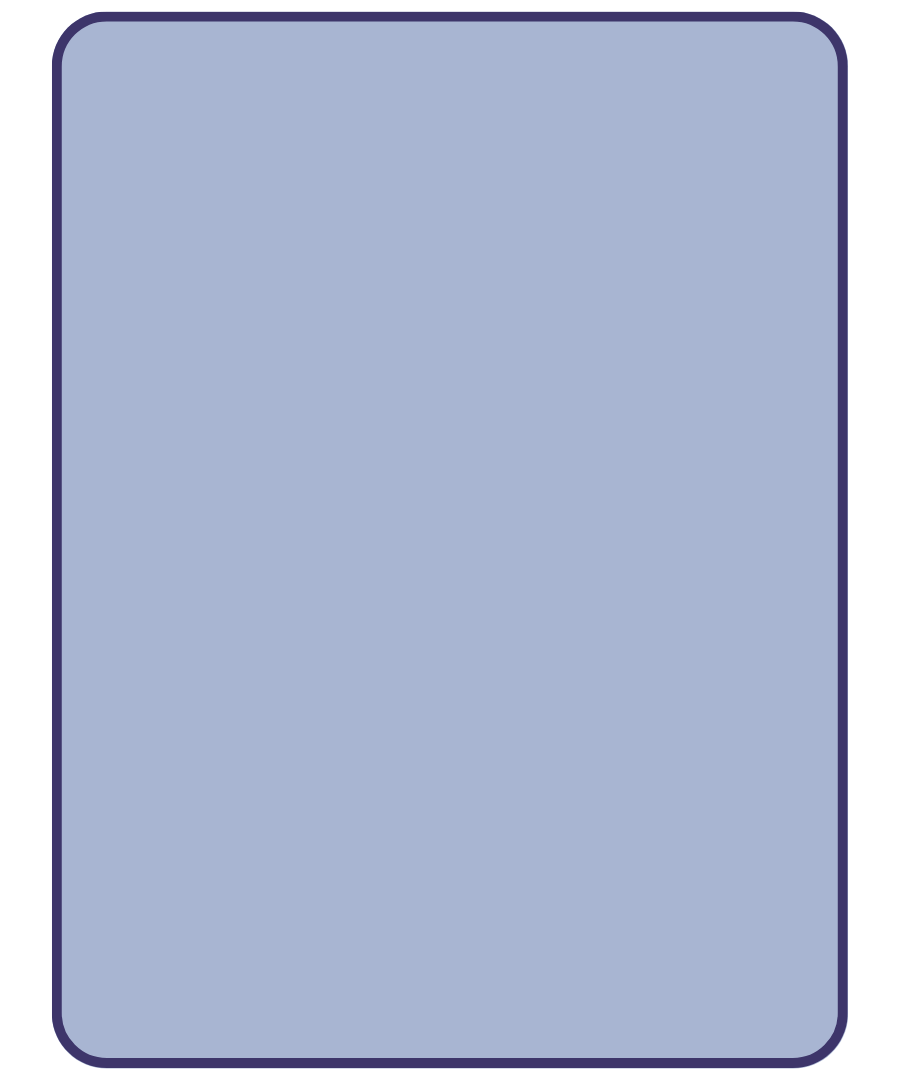
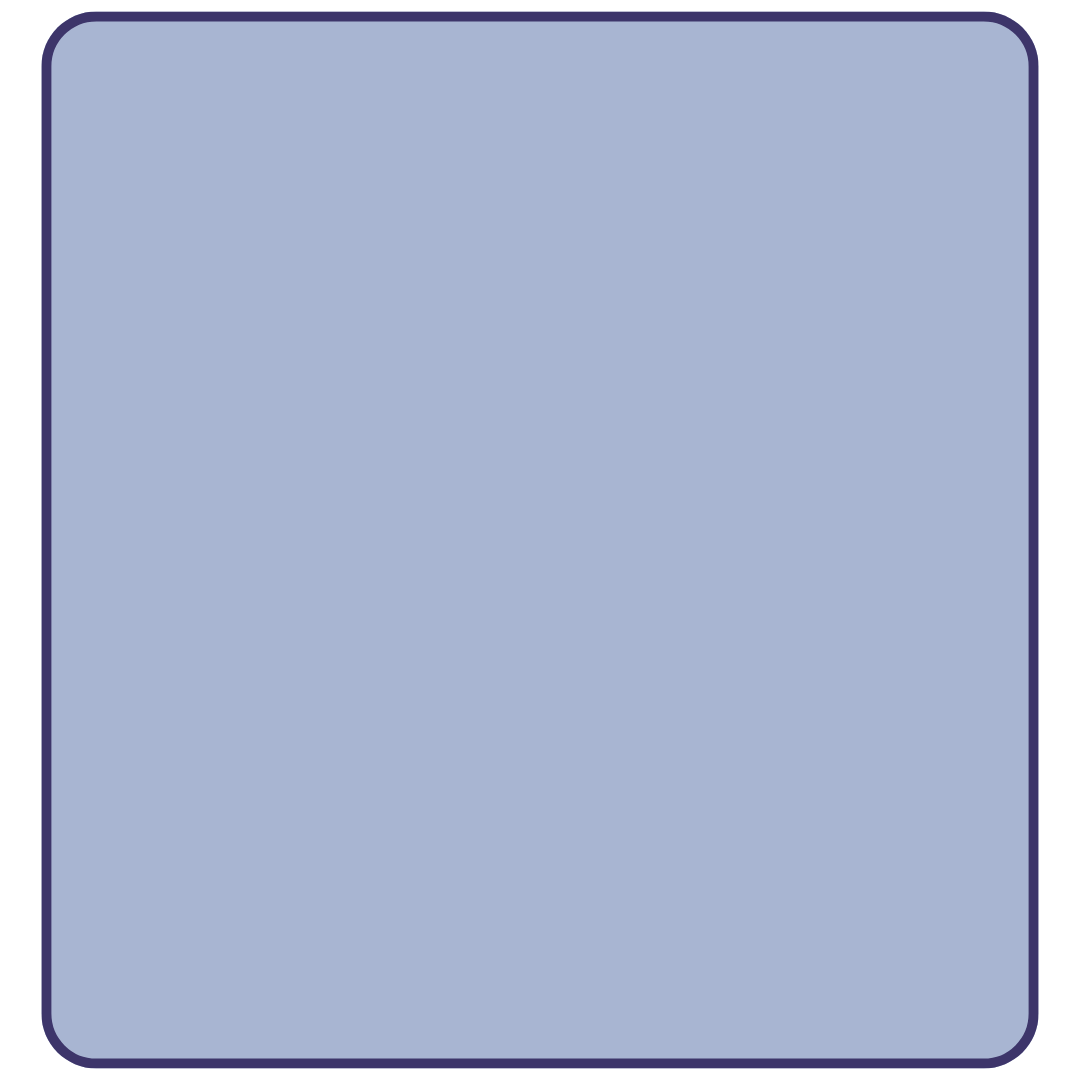
fixed box

Changed region(s): [[0.0311, 0.0, 0.1244, 1.0], [0.8711, 0.0, 0.9644, 1.0]]

diff --git a/about-me.html b/about-me.html
@@ -9,7 +9,7 @@
         </div>
     </a>
     <div id="box-container">
-        <img src="Assets\larger-box.png" id="box" alt="descripton">
+        <img src="Assets\box.png" id="box" alt="descripton">
         <div id="inner-description">
             <img src="Assets\headshot-photo.jpg" id="self-photo" alt="photo of creator">
             <div id="inner-text">
